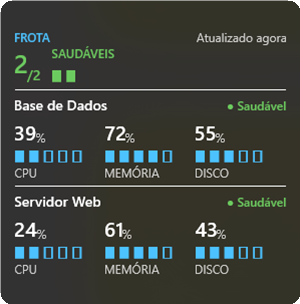
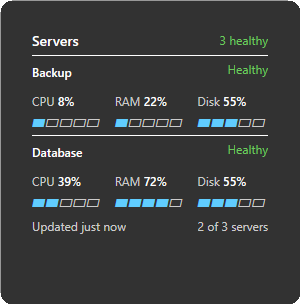
build(widget): V3 picker screenshots from synthetic data, per locale (UI.9 C2)
Medium V3 card, 300x304 RGBA, transparent rounded corners (alpha mask from the
legacy board captures), dark + light, rendered OFFLINE with the host's JS
adaptivecards renderer + host configs (proxy, not the board) from a synthetic
fleet written by Picker_fleet_is_synthetic_and_written_for_the_store_screenshot.
Public\ root = language-neutral en fallback; Public\pt-pt and Public\pt-br =
locale screenshots (picker locale-folder convention). No real server data.

diff --git a/tests/ServerMonitor.WidgetProvider.Tests/Rendering/WidgetCardPreviewTests.cs b/tests/ServerMonitor.WidgetProvider.Tests/Rendering/WidgetCardPreviewTests.cs
@@ -3,6 +3,9 @@ using System.Text.Encodings.Web;
 using System.Text.Json;
 using ServerMonitor.WidgetProvider.Hosting;
 using ServerMonitor.WidgetProvider.Rendering;
+using Contract = ServerMonitor.WidgetContract.WidgetServerState;
+using Health = ServerMonitor.WidgetContract.WidgetHealth;
+using ServerMonitor.WidgetProvider.Reading;
 
 namespace ServerMonitor.WidgetProvider.Tests.Rendering;
 
@@ -62,6 +65,50 @@ public sealed class WidgetCardPreviewTests
         File.WriteAllText(stem + ".template.json", Indent(card.TemplateJson));
         File.WriteAllText(stem + ".data.json", Indent(card.DataJson));
         File.WriteAllText(stem + ".expanded.json", expanded.ToJsonString(Pretty));
+    }
+
+    /// <summary>
+    /// UI.9 C2: the SYNTHETIC fleet behind the widget-picker screenshots (Medium, per culture, all healthy and
+    /// fresh). Invented names, no host/IP/user — never real data. Written to
+    /// <c>%TEMP%\sm-widget-preview\picker\</c> for the offline proxy render that produces
+    /// <c>Public\ServerAlyzerWidgetScreenshot*.png</c> (command in the C2 report).
+    /// </summary>
+    [Theory]
+    [InlineData("en-US", "Web server", "Database", "Backup")]
+    [InlineData("pt-PT", "Servidor web", "Base de dados", "Cópias")]
+    [InlineData("pt-BR", "Servidor web", "Banco de dados", "Backup")]
+    public void Picker_fleet_is_synthetic_and_written_for_the_store_screenshot(string culture, string web, string db, string backup)
+    {
+        static Contract Server(int n, string name, double cpu, double mem, double disk) => new()
+        {
+            Id = new Guid($"00000000-0000-0000-0000-{n:D12}"),
+            DisplayName = name,
+            Health = Health.Healthy,
+            CpuUsagePercent = cpu,
+            MemoryUsagePercent = mem,
+            DiskUsagePercent = disk,
+            LastUpdatedUtc = Now.AddSeconds(-5),
+            StaleAfterSeconds = 60
+        };
+
+        var servers = new[] { Server(1, web, 24, 61, 43), Server(2, db, 39, 72, 55), Server(3, backup, 8, 22, 55) };
+        var strings = WidgetStrings.ForCulture(CultureInfo.GetCultureInfo(culture));
+        var read = WidgetReadResult.Available(new ServerMonitor.WidgetContract.WidgetStateSnapshot
+        {
+            SchemaVersion = ServerMonitor.WidgetContract.WidgetSchema.CurrentVersion,
+            GeneratedAtUtc = Now,
+            OverallHealth = Health.Healthy,
+            Servers = servers
+        });
+        var card = WidgetCardRenderer.Render(WidgetViewModelBuilder.Build(read, WidgetSizeHint.Medium, Now, strings));
+        var expanded = CardTemplateHarness.Expand(card.TemplateJson, card.DataJson);
+
+        Assert.Empty(CardTemplateHarness.ShapeErrors(expanded));
+        Assert.Equal(strings.FleetAllHealthy, WidgetViewModelBuilder.Build(read, WidgetSizeHint.Small, Now, strings).Title);
+
+        var dir = Path.Combine(Path.GetTempPath(), "sm-widget-preview", "picker");
+        Directory.CreateDirectory(dir);
+        File.WriteAllText(Path.Combine(dir, $"medium-picker-{culture}.expanded.json"), expanded.ToJsonString(Pretty));
     }
 
     private static string Indent(string json)
